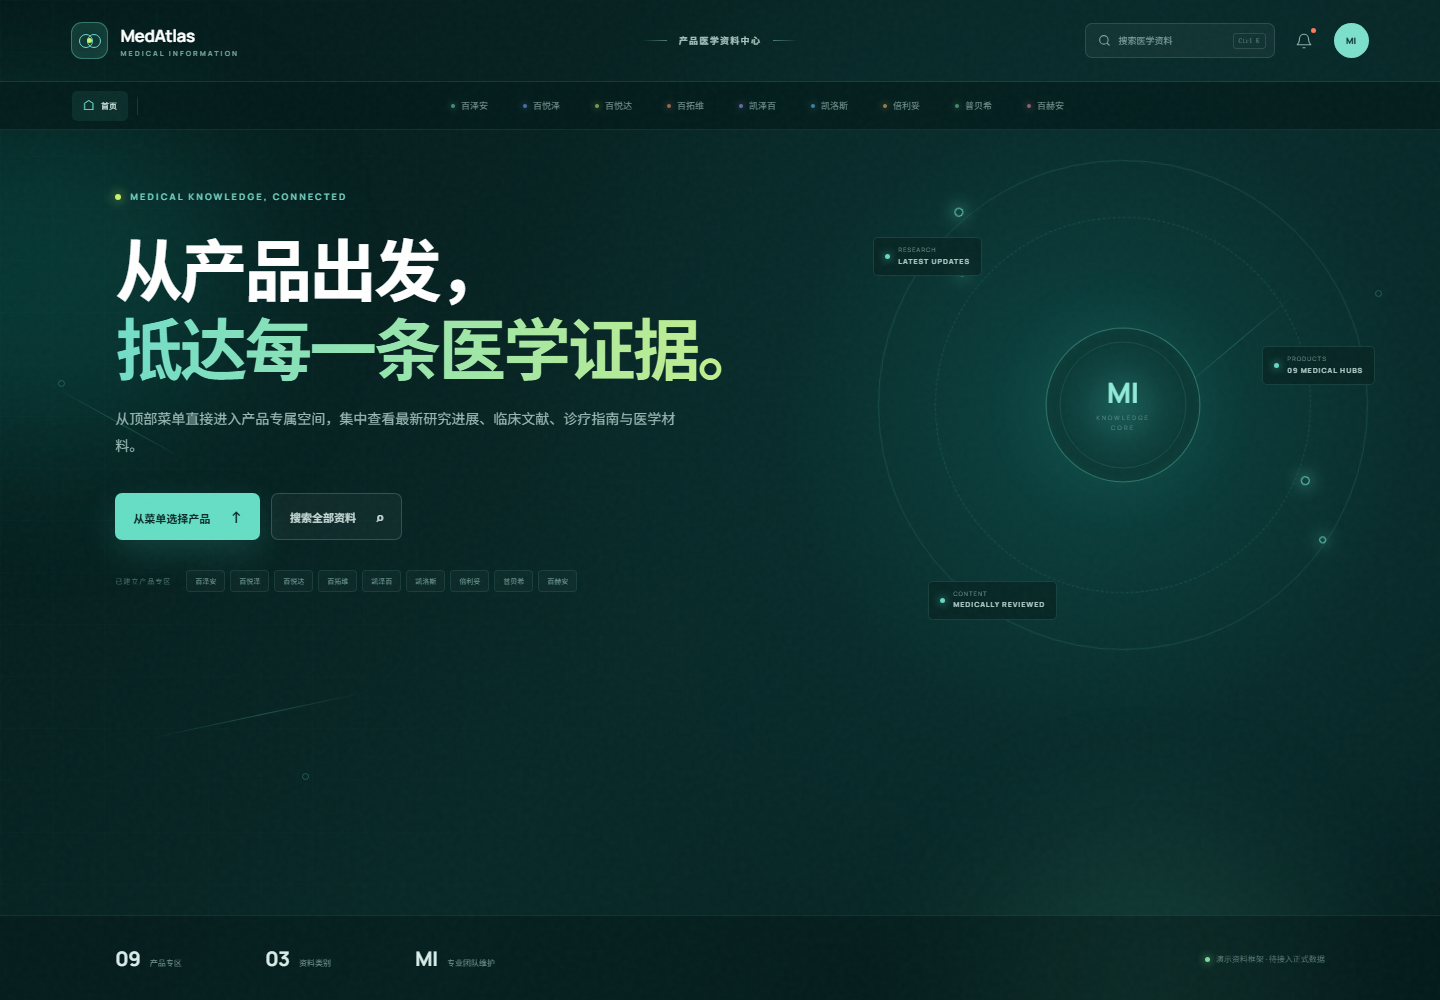
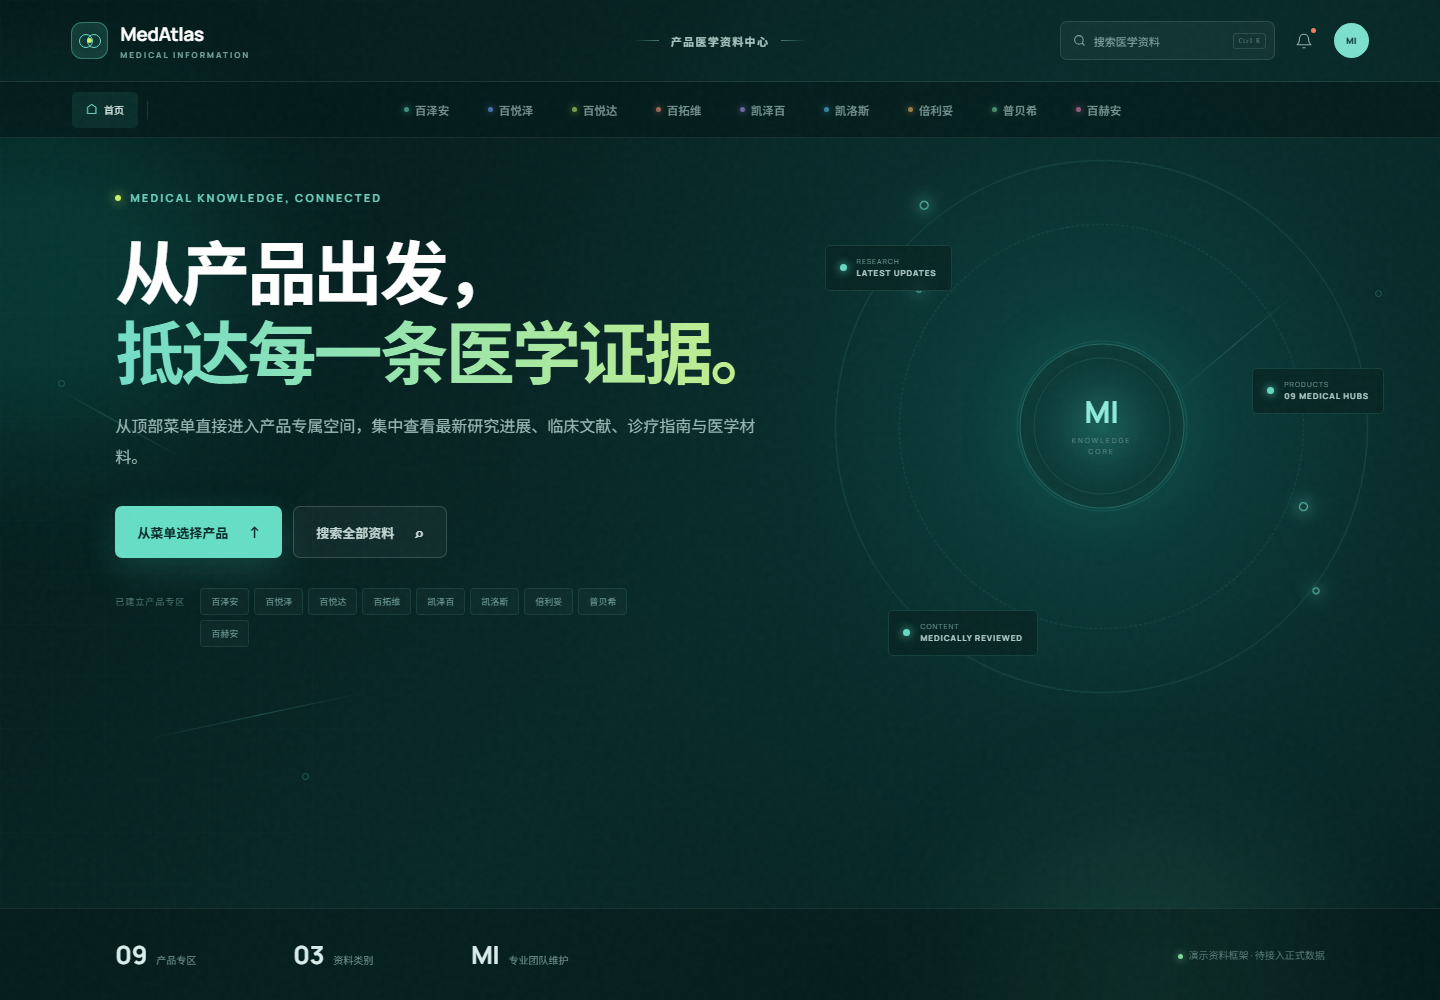
Improve typography and responsive hero scale

diff --git a/styles.css b/styles.css
@@ -198,3 +198,106 @@ button, a { -webkit-tap-highlight-color: transparent; }
   .compact-home { height:100svh;min-height:680px;padding-top:155px; }.compact-home .hero-content h1 { font-size:37px; }.compact-home .hero-data { top:330px; }.home-product-hint { display:none; }
   .detail-hero { min-height:515px;padding-top:140px; }.detail-shell { padding-top:24px; }.research-heading { align-items:start; }.research-updated { display:none; }.research-spotlight { grid-template-columns:1fr; }.spotlight-copy { padding:25px; }.spotlight-visual { min-height:145px;border-top:1px solid rgba(255,255,255,.07);border-left:0; }.spotlight-meta { flex-wrap:wrap;gap:8px 14px; }.research-layout { grid-template-columns:1fr; }.research-summary-card { display:none; }.research-update-row { grid-template-columns:38px 18px minmax(0,1fr) 25px; }.timeline-content { padding-right:4px; }.timeline-content p { display:none; }.quick-products { grid-template-columns:repeat(2,1fr); }
 }
+
+/* Readability and large-screen scaling */
+.brand strong { font-size: 19px; }
+.brand small { font-size: 8px; }
+.platform-title { font-size: 11px; }
+.global-search-trigger { width: 215px; height: 39px; font-size: 11px; }
+.product-menu-bar { height: 56px; }
+.menu-home { height: 36px; padding: 0 14px; font-size: 10px; }
+.product-menu-scroll button { min-width: 84px; padding: 0 12px; font-size: 11.5px; font-weight: 600; }
+.menu-dot { width: 5px; height: 5px; }
+.compact-home { padding-top: clamp(190px, 19vh, 235px); }
+.compact-home .hero-content { max-width: min(760px, 51vw); }
+.compact-home .hero-content h1 { font-size: clamp(52px, 4.8vw, 82px); }
+.hero-status { font-size: 11px; }
+.hero-content > p { max-width: 640px; font-size: 16px; }
+.hero-actions button { height: 52px; padding: 0 22px; font-size: 13px; }
+.home-product-hint > span { padding-top: 7px; font-size: 9px; }
+.home-product-hint button { padding: 6px 10px; font-size: 9px; }
+.hero-foot { height: 92px; }
+.hero-foot > div { min-width: 178px; }
+.hero-foot strong { font-size: 25px; }
+.hero-foot div span,.hero-foot > p { font-size: 10px; }
+.hero-data { width: clamp(530px, 37vw, 720px); height: clamp(530px, 37vw, 720px); top: clamp(150px, 15vh, 190px); right: clamp(3vw, 5vw, 7vw); }
+.orbit-two { inset: 12%; }
+.data-core { width: clamp(165px, 11vw, 215px); height: clamp(165px, 11vw, 215px); }
+.data-core strong { font-size: clamp(30px, 2.1vw, 40px); }
+.data-core small { font-size: clamp(7px, .48vw, 9px); }
+.float-label { padding: 10px 14px; gap: 10px; font-size: clamp(7px, .48vw, 9px); }
+.float-label b { font-size: clamp(8px, .55vw, 10px); }
+.float-label i { width: 7px; height: 7px; }
+.label-a { left: -2%; top: 16%; }.label-b { right: -3%; top: 39%; }.label-c { left: 10%; bottom: 7%; }
+
+.detail-code { width: 88px; height: 88px; font-size: 26px; }
+.detail-status { font-size: 10px; }
+.detail-identity h1 { font-size: 44px; }
+.detail-identity p { font-size: 11px; }
+.detail-description { max-width: 500px; font-size: 12px; }
+.detail-metrics span { font-size: 9px; }
+.detail-metrics strong { font-size: 16px; }
+.detail-metrics strong small { font-size: 10px; }
+.detail-shell { grid-template-columns: 240px minmax(0,1fr); gap: 38px; max-width: 1400px; }
+.sidebar-product > span { width: 40px; height: 40px; font-size: 11px; }
+.sidebar-product strong { font-size: 13px; }.sidebar-product small { font-size: 8px; }
+.detail-sidebar nav button { height: 44px; font-size: 11px; }
+.detail-sidebar nav button span { font-size: 9px; }
+.medical-contact strong { font-size: 12px; }.medical-contact p,.medical-contact button { font-size: 9px; }
+.overline { font-size: 10px; }
+.research-heading h2,.research-section-title h2 { font-size: 28px; }
+.research-heading p { font-size: 10px; }
+.research-updated span { font-size: 8px; }.research-updated strong { font-size: 10px; }
+.research-spotlight { min-height: 285px; }
+.spotlight-label { font-size: 9px; }
+.spotlight-copy h3 { font-size: 26px; }
+.spotlight-copy > p { font-size: 11px; }
+.spotlight-meta { font-size: 9px; }
+.spotlight-copy button { font-size: 10px; }
+.visual-seq { font-size: 8px; }
+.spotlight-visual > strong { font-size: 16px; }
+.signal-orbit { width: 155px; height: 155px; }
+.research-layout { grid-template-columns: minmax(0,1fr) 250px; gap: 15px; }
+.research-update-row { min-height: 116px; }
+.timeline-date strong { font-size: 13px; }.timeline-date small { font-size: 8px; }
+.timeline-content > div span,.timeline-content > div b { font-size: 8px; }
+.timeline-content h3 { font-size: 12px; }
+.timeline-content p { font-size: 9px; }
+.research-summary-card h3 { font-size: 16px; }
+.summary-ring strong { font-size: 26px; }.summary-ring span { font-size: 8px; }
+.summary-row { font-size: 9px; }.summary-row strong { font-size: 11px; }
+.research-summary-card > p { font-size: 8px; }
+.overview-title h2,.latest-heading h2,.resource-page-title h2 { font-size: 27px; }
+.card-top { font-size: 12px; }.card-top small { font-size: 9px; }
+.info-block > span { font-size: 9px; }.info-block p { font-size: 11px; }
+.info-tags span,.type-badge,.resource-type time { font-size: 9px; }
+.featured-card h3 { font-size: 12px; }.featured-card p,.featured-card > span { font-size: 9px; }
+
+@media (min-width: 1800px) {
+  .site-header,.product-menu-bar { padding-right: 6.5vw; padding-left: 6.5vw; }
+  .compact-home { padding-right: 7.5vw; padding-left: 7.5vw; }
+  .compact-home .hero-content { max-width: 820px; }
+}
+@media (max-width: 1100px) {
+  .compact-home .hero-content { max-width: 600px; }
+  .hero-data { width: 520px; height: 520px; }
+  .research-layout { grid-template-columns: 1fr 220px; }
+}
+@media (max-width: 760px) {
+  .product-menu-bar { top: 67px; height: 48px; }
+  .product-menu-scroll button { min-width: 72px; padding: 0 8px; font-size: 10px; }
+  .menu-home { height: 32px; padding: 0 9px; font-size: 9px; }
+  .compact-home { padding-top: 165px; }
+  .compact-home .hero-content { max-width: none; }
+  .compact-home .hero-content h1 { font-size: 39px; }
+  .hero-content > p { font-size: 13px; }
+  .hero-actions button { height: 48px; padding: 0 14px; font-size: 11px; }
+  .compact-home .hero-data { width: 360px; height: 360px; top: 350px; right: -155px; }
+  .data-core { width: 125px; height: 125px; }
+  .detail-code { width: 66px; height: 66px; font-size: 20px; }
+  .detail-identity h1 { font-size: 31px; }
+  .detail-shell { display: block; }
+  .research-heading h2,.research-section-title h2 { font-size: 23px; }
+  .spotlight-copy h3 { font-size: 21px; }
+  .research-layout { grid-template-columns: 1fr; }
+}
